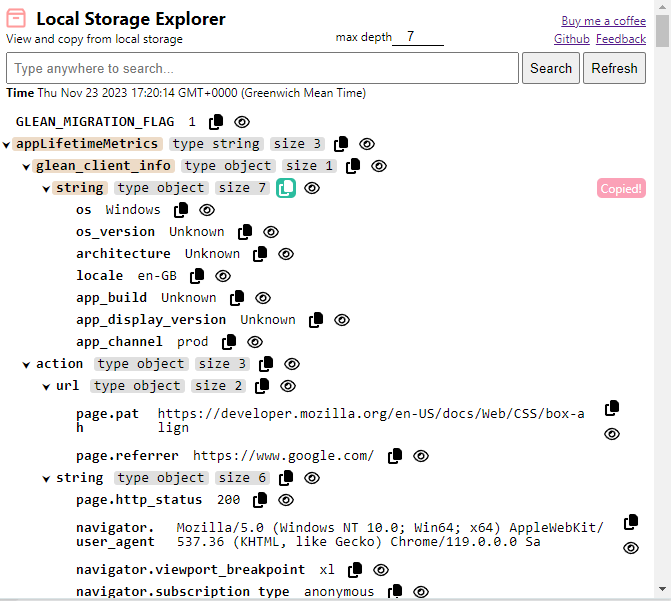
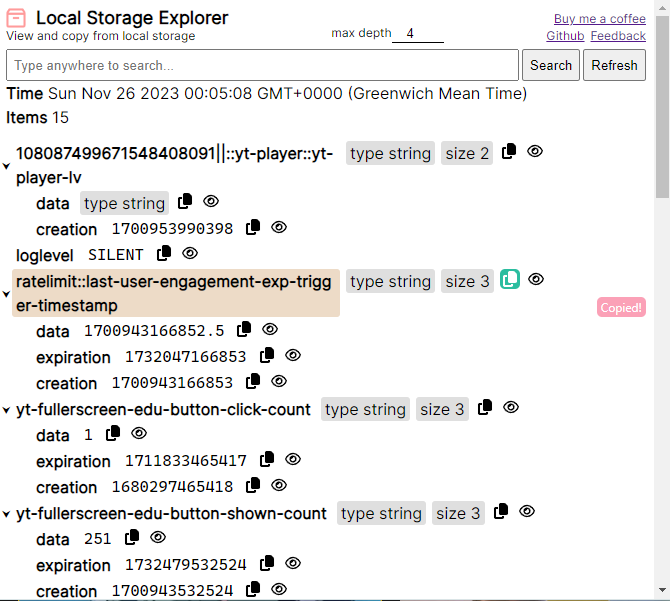
feat: firefox-compatibility

diff --git a/src/popup/browser-polyfill.min.js b/src/popup/browser-polyfill.min.js
@@ -1,0 +1,8 @@
+(function(a,b){if("function"==typeof define&&define.amd)define("webextension-polyfill",["module"],b);else if("undefined"!=typeof exports)b(module);else{var c={exports:{}};b(c),a.browser=c.exports}})("undefined"==typeof globalThis?"undefined"==typeof self?this:self:globalThis,function(a){"use strict";if(!globalThis.chrome?.runtime?.id)throw new Error("This script should only be loaded in a browser extension.");if("undefined"==typeof globalThis.browser||Object.getPrototypeOf(globalThis.browser)!==Object.prototype){a.exports=(a=>{const b={alarms:{clear:{minArgs:0,maxArgs:1},clearAll:{minArgs:0,maxArgs:0},get:{minArgs:0,maxArgs:1},getAll:{minArgs:0,maxArgs:0}},bookmarks:{create:{minArgs:1,maxArgs:1},get:{minArgs:1,maxArgs:1},getChildren:{minArgs:1,maxArgs:1},getRecent:{minArgs:1,maxArgs:1},getSubTree:{minArgs:1,maxArgs:1},getTree:{minArgs:0,maxArgs:0},move:{minArgs:2,maxArgs:2},remove:{minArgs:1,maxArgs:1},removeTree:{minArgs:1,maxArgs:1},search:{minArgs:1,maxArgs:1},update:{minArgs:2,maxArgs:2}},browserAction:{disable:{minArgs:0,maxArgs:1,fallbackToNoCallback:!0},enable:{minArgs:0,maxArgs:1,fallbackToNoCallback:!0},getBadgeBackgroundColor:{minArgs:1,maxArgs:1},getBadgeText:{minArgs:1,maxArgs:1},getPopup:{minArgs:1,maxArgs:1},getTitle:{minArgs:1,maxArgs:1},openPopup:{minArgs:0,maxArgs:0},setBadgeBackgroundColor:{minArgs:1,maxArgs:1,fallbackToNoCallback:!0},setBadgeText:{minArgs:1,maxArgs:1,fallbackToNoCallback:!0},setIcon:{minArgs:1,maxArgs:1},setPopup:{minArgs:1,maxArgs:1,fallbackToNoCallback:!0},setTitle:{minArgs:1,maxArgs:1,fallbackToNoCallback:!0}},browsingData:{remove:{minArgs:2,maxArgs:2},removeCache:{minArgs:1,maxArgs:1},removeCookies:{minArgs:1,maxArgs:1},removeDownloads:{minArgs:1,maxArgs:1},removeFormData:{minArgs:1,maxArgs:1},removeHistory:{minArgs:1,maxArgs:1},removeLocalStorage:{minArgs:1,maxArgs:1},removePasswords:{minArgs:1,maxArgs:1},removePluginData:{minArgs:1,maxArgs:1},settings:{minArgs:0,maxArgs:0}},commands:{getAll:{minArgs:0,maxArgs:0}},contextMenus:{remove:{minArgs:1,maxArgs:1},removeAll:{minArgs:0,maxArgs:0},update:{minArgs:2,maxArgs:2}},cookies:{get:{minArgs:1,maxArgs:1},getAll:{minArgs:1,maxArgs:1},getAllCookieStores:{minArgs:0,maxArgs:0},remove:{minArgs:1,maxArgs:1},set:{minArgs:1,maxArgs:1}},devtools:{inspectedWindow:{eval:{minArgs:1,maxArgs:2,singleCallbackArg:!1}},panels:{create:{minArgs:3,maxArgs:3,singleCallbackArg:!0},elements:{createSidebarPane:{minArgs:1,maxArgs:1}}}},downloads:{cancel:{minArgs:1,maxArgs:1},download:{minArgs:1,maxArgs:1},erase:{minArgs:1,maxArgs:1},getFileIcon:{minArgs:1,maxArgs:2},open:{minArgs:1,maxArgs:1,fallbackToNoCallback:!0},pause:{minArgs:1,maxArgs:1},removeFile:{minArgs:1,maxArgs:1},resume:{minArgs:1,maxArgs:1},search:{minArgs:1,maxArgs:1},show:{minArgs:1,maxArgs:1,fallbackToNoCallback:!0}},extension:{isAllowedFileSchemeAccess:{minArgs:0,maxArgs:0},isAllowedIncognitoAccess:{minArgs:0,maxArgs:0}},history:{addUrl:{minArgs:1,maxArgs:1},deleteAll:{minArgs:0,maxArgs:0},deleteRange:{minArgs:1,maxArgs:1},deleteUrl:{minArgs:1,maxArgs:1},getVisits:{minArgs:1,maxArgs:1},search:{minArgs:1,maxArgs:1}},i18n:{detectLanguage:{minArgs:1,maxArgs:1},getAcceptLanguages:{minArgs:0,maxArgs:0}},identity:{launchWebAuthFlow:{minArgs:1,maxArgs:1}},idle:{queryState:{minArgs:1,maxArgs:1}},management:{get:{minArgs:1,maxArgs:1},getAll:{minArgs:0,maxArgs:0},getSelf:{minArgs:0,maxArgs:0},setEnabled:{minArgs:2,maxArgs:2},uninstallSelf:{minArgs:0,maxArgs:1}},notifications:{clear:{minArgs:1,maxArgs:1},create:{minArgs:1,maxArgs:2},getAll:{minArgs:0,maxArgs:0},getPermissionLevel:{minArgs:0,maxArgs:0},update:{minArgs:2,maxArgs:2}},pageAction:{getPopup:{minArgs:1,maxArgs:1},getTitle:{minArgs:1,maxArgs:1},hide:{minArgs:1,maxArgs:1,fallbackToNoCallback:!0},setIcon:{minArgs:1,maxArgs:1},setPopup:{minArgs:1,maxArgs:1,fallbackToNoCallback:!0},setTitle:{minArgs:1,maxArgs:1,fallbackToNoCallback:!0},show:{minArgs:1,maxArgs:1,fallbackToNoCallback:!0}},permissions:{contains:{minArgs:1,maxArgs:1},getAll:{minArgs:0,maxArgs:0},remove:{minArgs:1,maxArgs:1},request:{minArgs:1,maxArgs:1}},runtime:{getBackgroundPage:{minArgs:0,maxArgs:0},getPlatformInfo:{minArgs:0,maxArgs:0},openOptionsPage:{minArgs:0,maxArgs:0},requestUpdateCheck:{minArgs:0,maxArgs:0},sendMessage:{minArgs:1,maxArgs:3},sendNativeMessage:{minArgs:2,maxArgs:2},setUninstallURL:{minArgs:1,maxArgs:1}},sessions:{getDevices:{minArgs:0,maxArgs:1},getRecentlyClosed:{minArgs:0,maxArgs:1},restore:{minArgs:0,maxArgs:1}},storage:{local:{clear:{minArgs:0,maxArgs:0},get:{minArgs:0,maxArgs:1},getBytesInUse:{minArgs:0,maxArgs:1},remove:{minArgs:1,maxArgs:1},set:{minArgs:1,maxArgs:1}},managed:{get:{minArgs:0,maxArgs:1},getBytesInUse:{minArgs:0,maxArgs:1}},sync:{clear:{minArgs:0,maxArgs:0},get:{minArgs:0,maxArgs:1},getBytesInUse:{minArgs:0,maxArgs:1},remove:{minArgs:1,maxArgs:1},set:{minArgs:1,maxArgs:1}}},tabs:{captureVisibleTab:{minArgs:0,maxArgs:2},create:{minArgs:1,maxArgs:1},detectLanguage:{minArgs:0,maxArgs:1},discard:{minArgs:0,maxArgs:1},duplicate:{minArgs:1,maxArgs:1},executeScript:{minArgs:1,maxArgs:2},get:{minArgs:1,maxArgs:1},getCurrent:{minArgs:0,maxArgs:0},getZoom:{minArgs:0,maxArgs:1},getZoomSettings:{minArgs:0,maxArgs:1},goBack:{minArgs:0,maxArgs:1},goForward:{minArgs:0,maxArgs:1},highlight:{minArgs:1,maxArgs:1},insertCSS:{minArgs:1,maxArgs:2},move:{minArgs:2,maxArgs:2},query:{minArgs:1,maxArgs:1},reload:{minArgs:0,maxArgs:2},remove:{minArgs:1,maxArgs:1},removeCSS:{minArgs:1,maxArgs:2},sendMessage:{minArgs:2,maxArgs:3},setZoom:{minArgs:1,maxArgs:2},setZoomSettings:{minArgs:1,maxArgs:2},update:{minArgs:1,maxArgs:2}},topSites:{get:{minArgs:0,maxArgs:0}},webNavigation:{getAllFrames:{minArgs:1,maxArgs:1},getFrame:{minArgs:1,maxArgs:1}},webRequest:{handlerBehaviorChanged:{minArgs:0,maxArgs:0}},windows:{create:{minArgs:0,maxArgs:1},get:{minArgs:1,maxArgs:2},getAll:{minArgs:0,maxArgs:1},getCurrent:{minArgs:0,maxArgs:1},getLastFocused:{minArgs:0,maxArgs:1},remove:{minArgs:1,maxArgs:1},update:{minArgs:2,maxArgs:2}}};if(0===Object.keys(b).length)throw new Error("api-metadata.json has not been included in browser-polyfill");class c extends WeakMap{constructor(a,b=void 0){super(b),this.createItem=a}get(a){return this.has(a)||this.set(a,this.createItem(a)),super.get(a)}}const d=a=>a&&"object"==typeof a&&"function"==typeof a.then,e=(b,c)=>(...d)=>{a.runtime.lastError?b.reject(new Error(a.runtime.lastError.message)):c.singleCallbackArg||1>=d.length&&!1!==c.singleCallbackArg?b.resolve(d[0]):b.resolve(d)},f=a=>1==a?"argument":"arguments",g=(a,b)=>function(c,...d){if(d.length<b.minArgs)throw new Error(`Expected at least ${b.minArgs} ${f(b.minArgs)} for ${a}(), got ${d.length}`);if(d.length>b.maxArgs)throw new Error(`Expected at most ${b.maxArgs} ${f(b.maxArgs)} for ${a}(), got ${d.length}`);return new Promise((f,g)=>{if(b.fallbackToNoCallback)try{c[a](...d,e({resolve:f,reject:g},b))}catch(e){console.warn(`${a} API method doesn't seem to support the callback parameter, `+"falling back to call it without a callback: ",e),c[a](...d),b.fallbackToNoCallback=!1,b.noCallback=!0,f()}else b.noCallback?(c[a](...d),f()):c[a](...d,e({resolve:f,reject:g},b))})},h=(a,b,c)=>new Proxy(b,{apply(b,d,e){return c.call(d,a,...e)}});let i=Function.call.bind(Object.prototype.hasOwnProperty);const j=(a,b={},c={})=>{let d=Object.create(null),e=Object.create(a);return new Proxy(e,{has(b,c){return c in a||c in d},get(e,f){if(f in d)return d[f];if(!(f in a))return;let k=a[f];if("function"==typeof k){if("function"==typeof b[f])k=h(a,a[f],b[f]);else if(i(c,f)){let b=g(f,c[f]);k=h(a,a[f],b)}else k=k.bind(a);}else if("object"==typeof k&&null!==k&&(i(b,f)||i(c,f)))k=j(k,b[f],c[f]);else if(i(c,"*"))k=j(k,b[f],c["*"]);else return Object.defineProperty(d,f,{configurable:!0,enumerable:!0,get(){return a[f]},set(b){a[f]=b}}),k;return d[f]=k,k},set(b,c,e){return c in d?d[c]=e:a[c]=e,!0},defineProperty(a,b,c){return Reflect.defineProperty(d,b,c)},deleteProperty(a,b){return Reflect.deleteProperty(d,b)}})},k=a=>({addListener(b,c,...d){b.addListener(a.get(c),...d)},hasListener(b,c){return b.hasListener(a.get(c))},removeListener(b,c){b.removeListener(a.get(c))}}),l=new c(a=>"function"==typeof a?function(b){const c=j(b,{},{getContent:{minArgs:0,maxArgs:0}});a(c)}:a),m=new c(a=>"function"==typeof a?function(b,c,e){let f,g,h=!1,i=new Promise(a=>{f=function(b){h=!0,a(b)}});try{g=a(b,c,f)}catch(a){g=Promise.reject(a)}const j=!0!==g&&d(g);if(!0!==g&&!j&&!h)return!1;const k=a=>{a.then(a=>{e(a)},a=>{let b;b=a&&(a instanceof Error||"string"==typeof a.message)?a.message:"An unexpected error occurred",e({__mozWebExtensionPolyfillReject__:!0,message:b})}).catch(a=>{console.error("Failed to send onMessage rejected reply",a)})};return j?k(g):k(i),!0}:a),n=({reject:b,resolve:c},d)=>{a.runtime.lastError?a.runtime.lastError.message==="The message port closed before a response was received."?c():b(new Error(a.runtime.lastError.message)):d&&d.__mozWebExtensionPolyfillReject__?b(new Error(d.message)):c(d)},o=(a,b,c,...d)=>{if(d.length<b.minArgs)throw new Error(`Expected at least ${b.minArgs} ${f(b.minArgs)} for ${a}(), got ${d.length}`);if(d.length>b.maxArgs)throw new Error(`Expected at most ${b.maxArgs} ${f(b.maxArgs)} for ${a}(), got ${d.length}`);return new Promise((a,b)=>{const e=n.bind(null,{resolve:a,reject:b});d.push(e),c.sendMessage(...d)})},p={devtools:{network:{onRequestFinished:k(l)}},runtime:{onMessage:k(m),onMessageExternal:k(m),sendMessage:o.bind(null,"sendMessage",{minArgs:1,maxArgs:3})},tabs:{sendMessage:o.bind(null,"sendMessage",{minArgs:2,maxArgs:3})}},q={clear:{minArgs:1,maxArgs:1},get:{minArgs:1,maxArgs:1},set:{minArgs:1,maxArgs:1}};return b.privacy={network:{"*":q},services:{"*":q},websites:{"*":q}},j(a,p,b)})(chrome)}else a.exports=globalThis.browser});
+//# sourceMappingURL=browser-polyfill.min.js.map
+
+// webextension-polyfill v.0.10.0 (https://github.com/mozilla/webextension-polyfill)
+
+/* This Source Code Form is subject to the terms of the Mozilla Public
+ * License, v. 2.0. If a copy of the MPL was not distributed with this
+ * file, You can obtain one at http://mozilla.org/MPL/2.0/. */

diff --git a/src/popup/popup.js b/src/popup/popup.js
@@ -148,9 +148,9 @@ export function getAsNumber(anything) {
 }
 
 async function getSettings() {
-    const [tab] = await chrome.tabs.query({ active: true, currentWindow: true });
+    const [tab] = await browser.tabs.query({ active: true, currentWindow: true });
     const origin = new URL(tab.url).origin
-    const settings = await chrome.storage.sync.get(origin)
+    const settings = await browser.storage.sync.get(origin)
     // console.log(`getting settings:`, settings[origin])
     return (settings && settings[origin]) ? settings[origin] : {}
 }
@@ -163,11 +163,11 @@ async function saveSettings(settings) {
     if (!isObject(settings)) {
         throw new Error(`trying to save a non-object settings: ${settings}`)
     }
-    const [tab] = await chrome.tabs.query({ active: true, currentWindow: true });
+    const [tab] = await browser.tabs.query({ active: true, currentWindow: true });
     const origin = new URL(tab.url).origin
     const toSave = {}
     toSave[origin] = settings
-    await chrome.storage.sync.set(toSave)
+    await browser.storage.sync.set(toSave)
 }
 
 // feat: on open extension popup, get local storage content and create tree
@@ -176,9 +176,7 @@ async function refresh(parsedNode) {
     const maxDepth = await getMaxDepth()
 
     if (parsedNode === null || parsedNode === undefined) {
-        parsedNode = parseRecursive({
-            "LOCAL STORAGE": await getLocalStorageContent()
-        }, maxDepth)
+        parsedNode = parseRecursive(await getLocalStorageContent(), maxDepth)
     }
 
     deleteHtmlContainerIn(document.body)
@@ -197,18 +195,18 @@ async function refresh(parsedNode) {
 }
 
 async function getLocalStorageContent() {
-    // const [tab] = await chrome.tabs.query({ active: true, currentWindow: true });
-    // const response = await chrome.tabs.sendMessage(tab.id, { type: "retrieve" });
+    // const [tab] = await browser.tabs.query({ active: true, currentWindow: true });
+    // const response = await browser.tabs.sendMessage(tab.id, { type: "retrieve" });
     // return response
 
     // Get the current tab
-    const tabs = await chrome.tabs.query({ active: true, currentWindow: true });
+    const tabs = await browser.tabs.query({ active: true, currentWindow: true });
     const tab = tabs[0];
-    const execution = await chrome.scripting.executeScript({
+    const execution = await browser.scripting.executeScript({
         target: { tabId: tab.id },
         func: () => ({ ...localStorage }),
     })
-    return execution[0].result
+    return execution[0].result;
 }
 
 function parseRecursive(raw, depth) {
@@ -310,6 +308,7 @@ function insertStats(node, lastUpdated) {
     const statsNode = document.querySelector("#stats")
     if (statsNode) {
         statsNode.innerHTML = `<b>Time</b> ${lastUpdated}<br/>`
+        statsNode.innerHTML += `<b>Items</b> ${Object.keys(node.children).length}<br/>`
     }
 }
 

diff --git a/src/popup/popup.css b/src/popup/popup.css
@@ -5,6 +5,10 @@ body {
     overflow: scroll;
 }
 
+.heading {
+    font-family: Inter, Roboto, 'Helvetica Neue', 'Arial Nova', 'Nimbus Sans', Arial, sans-serif;
+}
+
 /* Heading */
 
 #icon {
@@ -88,7 +92,9 @@ body {
 /* Content */
 
 :root {
-    --font-size: 0.9rem;
+    --font-size: 1rem;
+    /* slightly higher so that firefox do not trim off bottom of certain chars like g */
+    --line-height: 1.5rem;
     --max-line-height: 3;
 }
 
@@ -98,15 +104,29 @@ body {
     gap: 6px;
 }
 
+.value {
+    font-family: ui-monospace, 'Cascadia Code', 'Source Code Pro', Menlo, Consolas, 'DejaVu Sans Mono', monospace;
+    font-weight: normal;
+}
+
+.key,
+.object_tag,
+.count_tag,
+.array_tag,
+.string_tag,
+#stats {
+    font-family: Inter, Roboto, 'Helvetica Neue', 'Arial Nova', 'Nimbus Sans', Arial, sans-serif;
+}
+
 .key,
 .value,
 .object_tag,
 .count_tag,
 .array_tag,
-.string_tag {
+.string_tag,
+#stats {
     font-size: var(--font-size);
-    line-height: var(--font-size);
-    font-family: monospace;
+    line-height: var(--line-height);
 
     text-overflow: ellipsis;
     white-space: break-spaces;
@@ -119,6 +139,10 @@ body {
     border-radius: 3px;
 
     align-self: center;
+}
+
+#stats {
+    padding-left: 0
 }
 
 .key {
@@ -134,8 +158,8 @@ body {
     -webkit-box-orient: vertical;
     display: -webkit-box;
     -webkit-line-clamp: var(--max-line-height);
-    max-height: calc(var(--max-line-height) * var(--font-size));
-    
+    max-height: calc(var(--max-line-height) * var(--line-height));
+
     -webkit-box-pack: center
 }
 
@@ -144,6 +168,7 @@ body {
 .array_tag,
 .string_tag {
     background-color: #dfdfdf;
+    align-self: flex-start;
 }
 
 /* icons */

diff --git a/src/popup/popup.html b/src/popup/popup.html
@@ -3,6 +3,13 @@
 
 <head>
   <title>Local Storage Explorer</title>
+  <!-- fonts -->
+  <link rel="preconnect" href="https://fonts.googleapis.com">
+  <link rel="preconnect" href="https://fonts.gstatic.com" crossorigin>
+  <link href='https://fonts.googleapis.com/css?family=Inter' rel='stylesheet'>
+  <link href="https://fonts.googleapis.com/css2?family=Roboto" rel="stylesheet">
+  <link href="https://fonts.cdnfonts.com/css/cascadia-code" rel="stylesheet">
+  <!-- css -->
   <link rel="stylesheet" href="./popup.css" />
 </head>
 
@@ -92,6 +99,7 @@
     </li>
   </template>
 
+  <script src="./browser-polyfill.min.js"></script>
   <script src="./popup.js" type="module"></script>
 </body>
 

diff --git a/README.md b/README.md
@@ -8,11 +8,10 @@ Local storage maintains a separate storage area for each given origin, data pers
 
 This extension allow you to visualize, copy or search the content of the local storage easily. After clicking on the extension icon, you will see a popup, the extension will fetch the local storage content live which will be loaded into the popup shortly, it is a tree structure displaying the content of the current active tab's local storage.
 
-The local storage content is displayed under the "LOCAL STORAGE" key, note that the "LOCAL STORAGE" key itself is not present in the local storage, it is merely for completeness. Next to each key are:
-- metadata about the value associated with this key
-- copy icon which when clicked, copy the value associated with this key to your clipboard
-- eye icon which when clicked, display the full content of the key and value, (this is because the key/value can be very large and not easy to work with when expanded)
-You can also click on the key/arrow icon on its left to collapse/expand the content of the item.
+The tree-like structure contains:
+- metadata about the value associated with this key (type, number of items, etc...).
+- copy icon which when clicked, copy the value associated with this key to your clipboard.
+- eye icon which when clicked, display the full content of the key and value, (this is because the key/value can be very large and not easy to work with when expanded).
 
 ## Options
 - You can edit the `max depth` value at the top to a right level for your needs, it can also be set to a lower value to improve performance.
@@ -20,5 +19,6 @@ You can also click on the key/arrow icon on its left to collapse/expand the cont
 ## Screenshots
 ### Main
 <img src="./screenshot/screenshot.png" />
+
 ### Search
 <img src="./screenshot/screenshot_search.png" />
